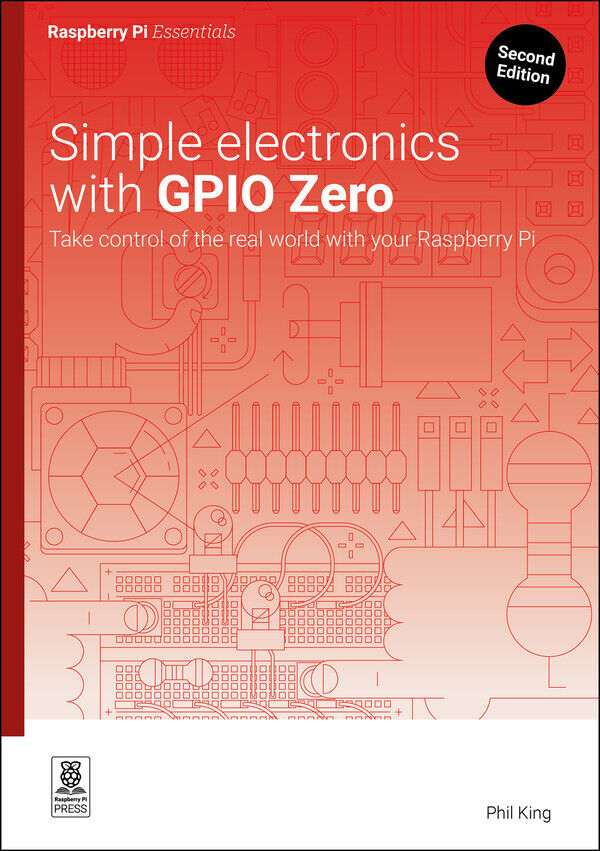
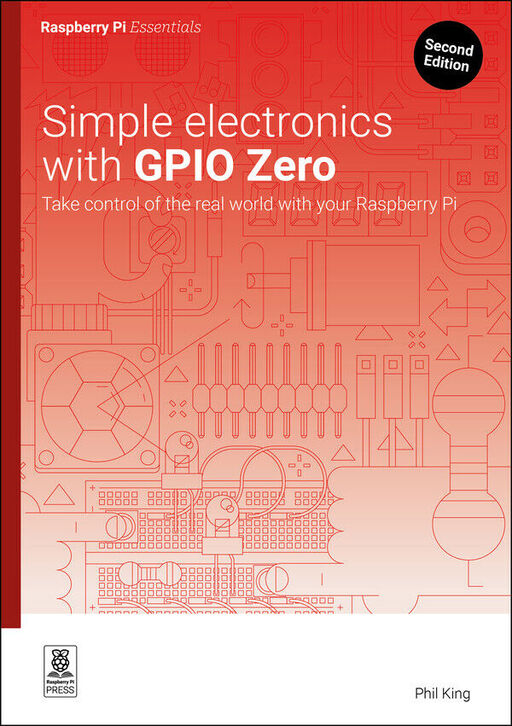
more compact image

diff --git a/README.md b/README.md
@@ -9,4 +9,4 @@ Example code and resources from the Raspberry Pi Press book, Simple electronics 
 * [Open issues](https://github.com/raspberrypipress/simple-electronics-gpiozero-2e/issues)
 * [Issues corrected in the second printing](https://github.com/raspberrypipress/simple-electronics-gpiozero-2e/issues?q=label%3A%222nd%20printing%22%20)
 * Preorder the book: [Amazon UK](https://www.amazon.co.uk/Simple-electronics-GPIO-Zero-Essentials/dp/1916868444) | [Amazon US](https://www.amazon.com/Simple-electronics-GPIO-Zero-Essentials/dp/1916868444)
-<img src="https://github.com/raspberrypipress/simple-electronics-gpiozero-2e/blob/main/images/9781916868441.jpg?raw=true" width="600" alt="Book cover image" />
+<img src="https://github.com/raspberrypipress/simple-electronics-gpiozero-2e/blob/main/images/9781916868441.jpg?raw=true" width="512" alt="Book cover image" />
